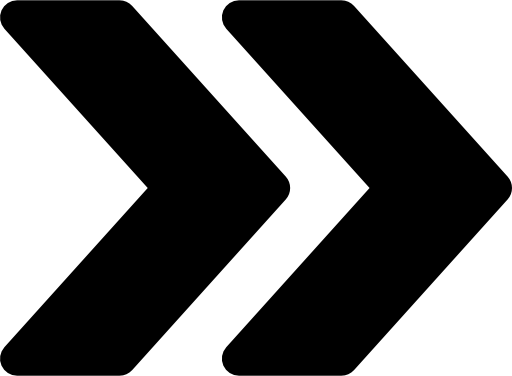
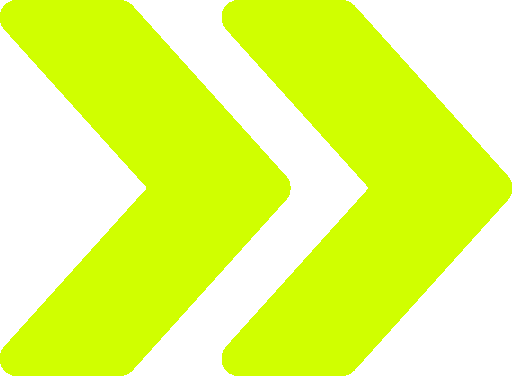
added different color fastforward picture and temp code

diff --git a/testing.html b/testing.html
@@ -34,10 +34,30 @@
         <script src="script.js"></script> <!-- script -->    
     </div>
       
-    <div class="notebookopen-text">
-         <p class="titlefont inknut-antiqua-regular">For The Cause</p><br>
+    <div class="notebookopen-text" layer="layer-FtcNb">
+        <p class="titlefont inknut-antiqua-regular">For The Cause</p><br>
         <p class="parafont inknut-antiqua-regular">a 2d platformer.</p>
         <p class="parafont inknut-antiqua-regular">limited lives.</p>
+        <p class="parafont inknut-antiqua-regular">made by: Marc Baudet</p>
+    </div>
+
+    <div class="notebookopen-text" layer="layer-JbwlNb">
+        <p class="titlefont inknut-antiqua-regular">Just Bowling</p><br>
+        <p class="parafont inknut-antiqua-regular">a Vr Game.</p>
+        <p class="parafont inknut-antiqua-regular">With a working Scoring System.</p>
+        <p class="parafont inknut-antiqua-regular">made by: Marc Baudet</p>
+    </div>
+
+    <div class="notebookopen-text" layer="layer-Website">
+        <p class="titlefont inknut-antiqua-regular">Website</p><br>
+        <p class="parafont inknut-antiqua-regular">It's a website</p>
+        <p class="parafont inknut-antiqua-regular">you can site the web</p>
+        <p class="parafont inknut-antiqua-regular">made by: Marc Baudet</p>
+    </div>
+    <div class="notebookopen-text" layer="layer-Tbd">
+        <p class="titlefont inknut-antiqua-regular">To be determined</p><br>
+        <p class="parafont inknut-antiqua-regular">something else</p>
+        <p class="parafont inknut-antiqua-regular">that needs tbd</p>
         <p class="parafont inknut-antiqua-regular">made by: Marc Baudet</p>
     </div>
     <img class="imgtestingground" src="images/notebook-rotated.png" id="layer8">

diff --git a/style.css b/style.css
@@ -569,6 +569,26 @@ INTRODUCTION
       top: 12px;
       }
 
+      #layer-FtcNb
+      {
+        z-index: 100;
+      }
+
+      #layer-JbwlNb
+      {
+        z-index: 30;
+      }
+
+      #layer-Website
+      {
+        z-index: 29;
+      }
+
+      #layer-Tbd
+      {
+        z-index: 28;
+      }
+
       #slider-Image /*tv*/
       {
         z-index: 40;
